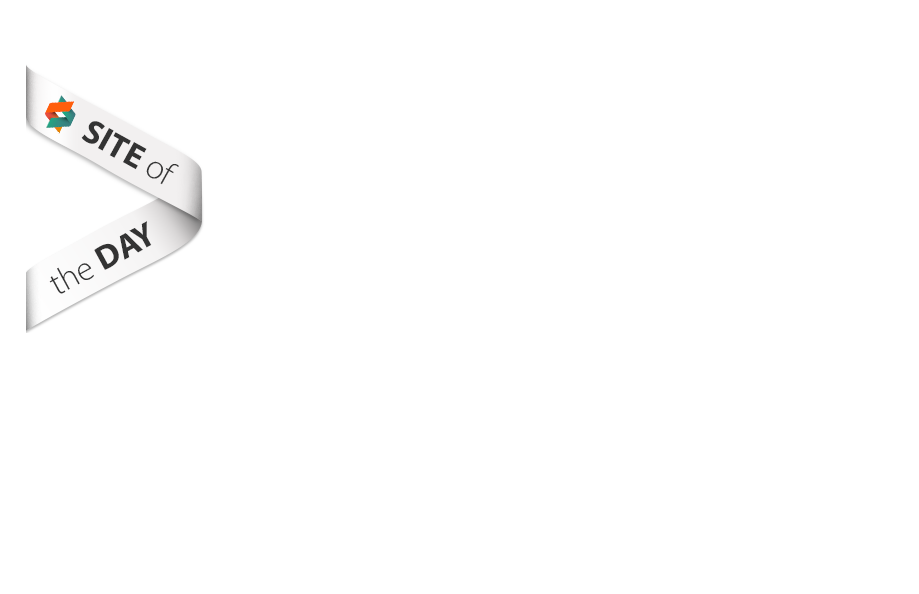
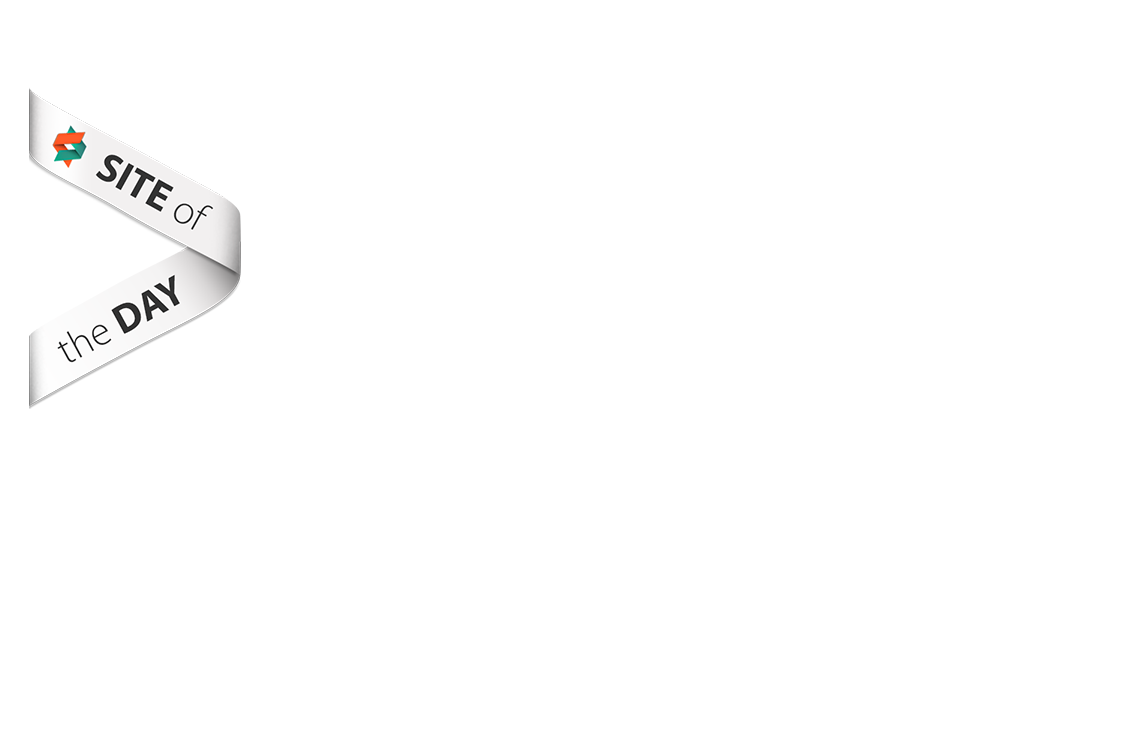
Retina Update
enlarged browser and ribbon graphics for desktop and tablet retina display

Changed region(s): [[0.0, 0.1212, 0.2437, 0.5455]]

diff --git a/index.html b/index.html
@@ -51,10 +51,10 @@
     
     	<div class="hero-unit">
     		<!-- <img class="ribbons animated foldInLeft" id="ribbons" src="img/ribbons.png" alt="Ribbons"> -->
-    		<img class="ribbon-white animated bounceInDown" id="ribbonone" src="img/ribbon-white.png" alt="White Ribbon">
-    		<img class="ribbon-black animated bounceInDown" id="ribbontwo" src="img/ribbon-black.png" alt="Black Ribbon">
-    		<img class="ribbon-green animated bounceInDown" id="ribbonthree" src="img/ribbon-green.png" alt="Green Ribbon">
-    		<img class="browser animated fadeInUp" id="browser" src="img/browser2.png" alt="Browser Window">
+    		<img class="ribbon-white animated bounceInDown" id="ribbonone" src="img/ribbon-white.png" height="594" width="919" alt="White Ribbon">
+    		<img class="ribbon-black animated bounceInDown" id="ribbontwo" src="img/ribbon-black.png" height="594" width="919" alt="Black Ribbon">
+    		<img class="ribbon-green animated bounceInDown" id="ribbonthree" src="img/ribbon-green.png" height="594" width="919" alt="Green Ribbon">
+    		<img class="browser animated fadeInUp" id="browser" src="img/browser2x.png" height="594" width="919" alt="Browser Window">
     	</div>
     	
     	<hr>
